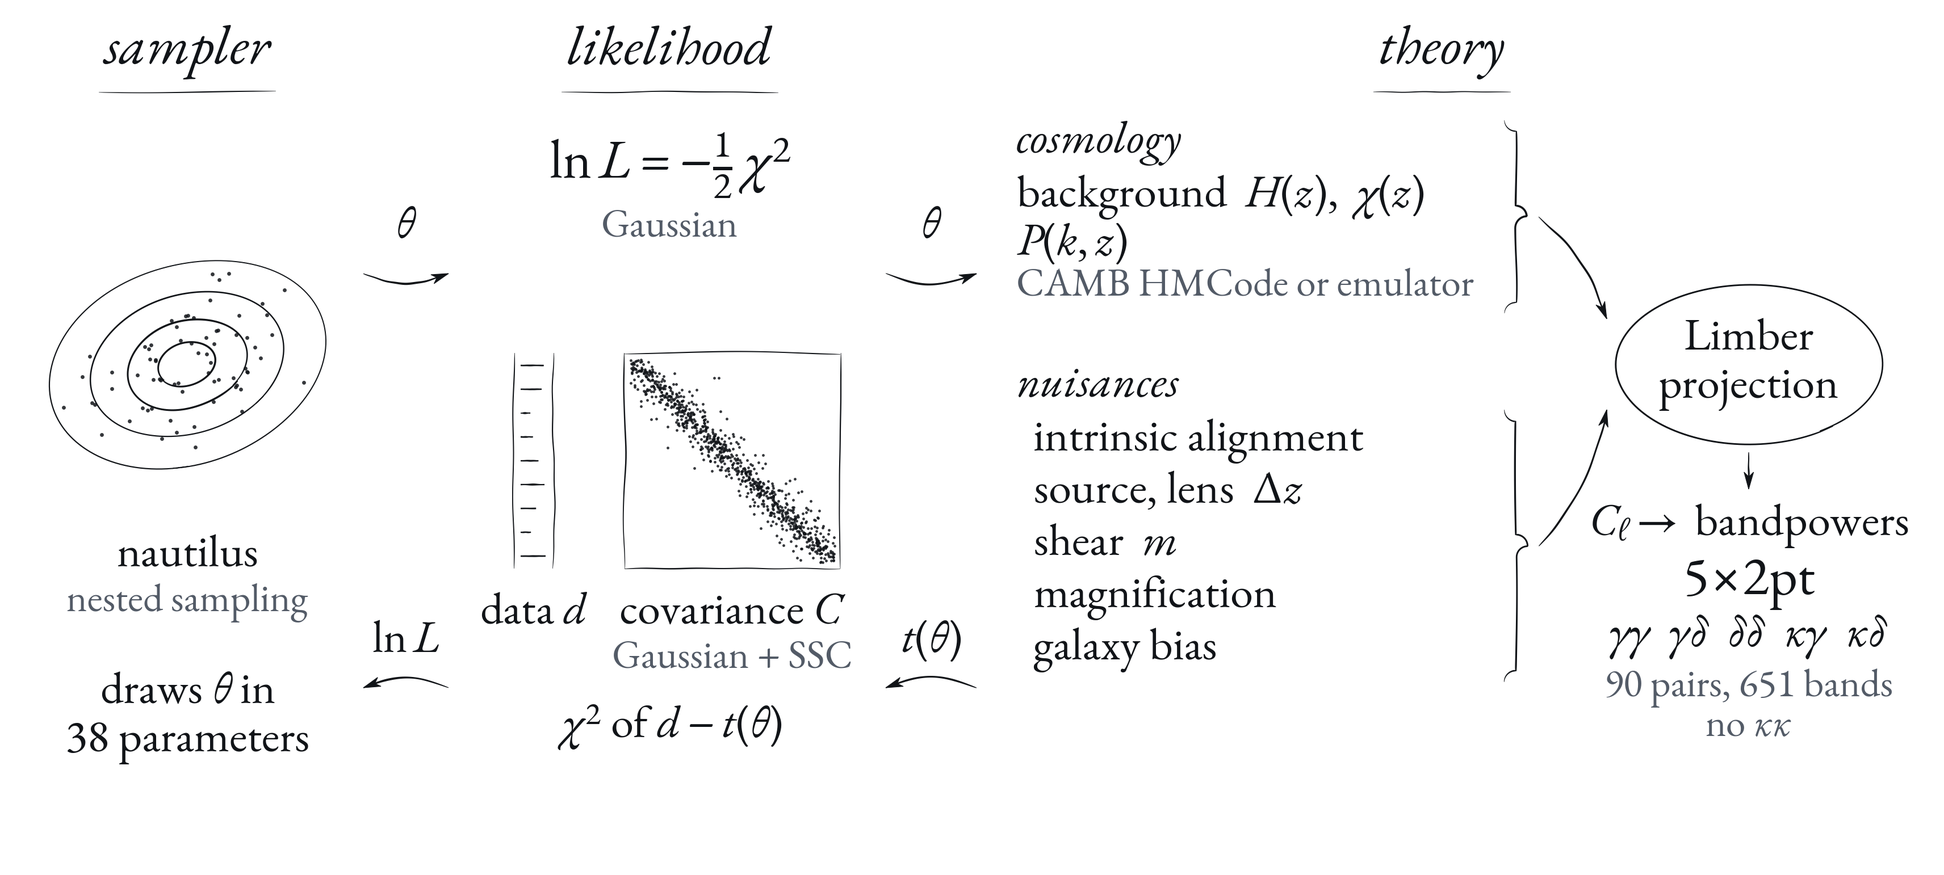
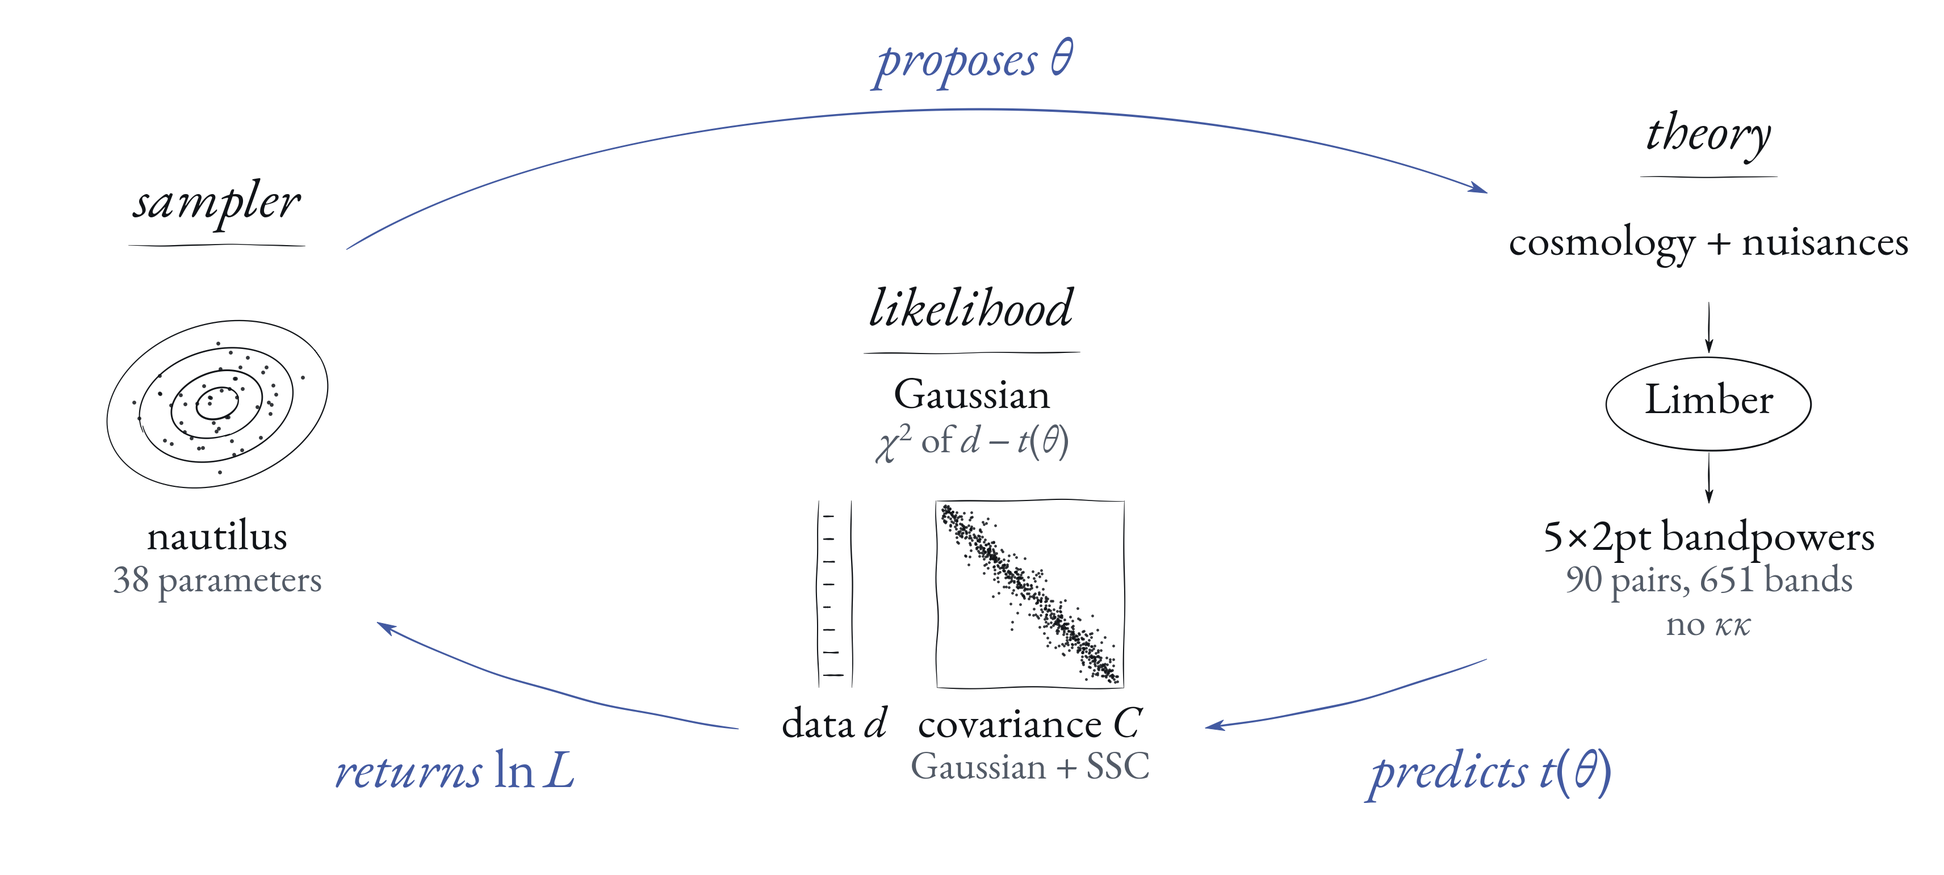
Paris SWG deck: control-variates slide closing the SPT covariance section; chain anatomy redrawn as one loop

diff --git a/2611_Paris_SWG/slides/cov-control-variates.html b/2611_Paris_SWG/slides/cov-control-variates.html
@@ -1,0 +1,36 @@
+<section data-layout="figure">
+  <h2>Control variates for the SPT covariance</h2>
+  <figure>
+    <img src="images/paris26_sketch_control_variates.png" alt="Sketch of a control-variate (CARPool) covariance. Left, few and accurate: SPT-constrained mocks, N of about 350 to 400, each y made with SPT's own reconstruction and drawn beside a mock c of the same sky made with a generic reconstruction. Right, many and approximate: SPT-like mocks, any number M, the same generic reconstruction each on its own sky. Below, the estimator: Sigma-hat equals Sigma-hat of y over the N pairs minus beta times (Sigma-hat of c over the N pairs minus Sigma-hat of c over the M), beta fitted per element on the pairs; unbiased for SPT's estimator, with the noise of N over (1 minus rho squared) constrained mocks, rho the pair correlation per element">
+  </figure>
+  <aside class="notes">
+    <ul class="skim">
+      <li><strong>Left</strong> — each SPT-constrained mock $y$ (blue, SPT's own reconstruction) beside a mock $c$ of the same sky, the same κ and Euclid fields, reconstructed generically; identical dots mark the shared sky.</li>
+      <li><strong>Right</strong> — SPT-like mocks alone, each on a new sky, as many as can be afforded: they pin down the covariance of the generic reconstruction.</li>
+      <li><strong>Estimator</strong> — the constrained mocks' sample covariance, corrected by how far the generic covariance on the same $N$ skies sits from its value over the $M$. Its expectation is SPT's covariance, whatever the generic reconstruction gets wrong.</li>
+      <li><strong>Gain</strong> — each element's noise shrinks by $1-\rho^2$, $\rho$ the correlation of that element's terms across pairs. How large $\rho$ is here is open. An idea for discussion, not a worked method.</li>
+    </ul>
+    <details><summary>The estimator</summary>
+    <p>In CARPool (Chartier et al. 2021) a costly simulation $\boldsymbol{y}$ and a cheap surrogate $\boldsymbol{c}$ are run from the same initial conditions, and $\boldsymbol{x} = \boldsymbol{y} - \boldsymbol{\beta}(\boldsymbol{c} - \boldsymbol{\mu_c})$ is unbiased for $\mathbb{E}[\boldsymbol{y}]$ for any $\boldsymbol{\beta}$, with $\boldsymbol{\mu_c}$ the surrogate's mean from a separate set of seeds (their eqs. 5, 10–11 and 14). For one element the best $\beta$ is $\mathrm{cov}(y,c)/\sigma_c^2$ and the variance falls by $1-\rho_{y,c}^2$ (eqs. 3–4). Chartier &amp; Wandelt apply the same estimator to a covariance by treating the centred outer products $\boldsymbol{Y}_n = \tilde{\boldsymbol{y}}_n\tilde{\boldsymbol{y}}_n^\mathsf{T}$ and $\boldsymbol{C}_n$ as the samples: $\boldsymbol{\Sigma_{yy}}(\boldsymbol{\beta}) = \gamma\overline{\boldsymbol{Y}} - \gamma\boldsymbol{\beta}(\overline{\boldsymbol{C}} - \boldsymbol{\mathcal{M}}_C)$, with $\gamma = N/(N-1)$ and $\boldsymbol{\mathcal{M}}_C$ the surrogate covariance from separate realizations (their eq. 13), and $\beta$ fitted separately for each element on the same $N$ pairs (their section 3, "$q=1$").</p>
+    <p>Here: $\boldsymbol{y}_n$ is the data vector (κ × shear, κ × positions, κκ and the galaxy-only spectra) measured on SPT-constrained mock $n$; $\boldsymbol{c}_n$ is the same data vector on the same sky with the generic reconstruction; $\hat\Sigma_y^N$ and $\hat\Sigma_c^N$ in the drawing are $\gamma\overline{\boldsymbol{Y}}$ and $\gamma\overline{\boldsymbol{C}}$, and $\hat\Sigma_c^M$ is $\boldsymbol{\mathcal{M}}_C$ from the $M$ SPT-like mocks. Fitting $\beta$ on the same pairs makes the estimate unbiased only up to small finite-$N$ terms; the papers accept this. Elements without κ are identical in $y$ and $c$, so $\beta = 1$ there and they come entirely from the $M$ SPT-like mocks. Setting $\beta = 1$ everywhere gives a simpler variant to read: the SPT-like covariance plus the difference between the two reconstructions, measured on the pairs.</p>
+    </details>
+    <details><summary>What it needs to work</summary>
+    <ul>
+      <li><strong>A high per-band correlation.</strong> For a covariance the samples are products of data vectors, and for Gaussian fluctuations, if a band in $y$ and in $c$ correlates with coefficient $r$, its diagonal element correlates as $\rho = r^2$ (my derivation, not from the papers). The element noise then falls by $1-r^4$: about 3× fewer constrained mocks needed at $r = 0.9$, 5× at 0.95, 25× at 0.99.</li>
+      <li><strong>The same CMB and noise realization in each pair.</strong> If the generic reconstruction runs on the same simulated CMB and noise maps that SPT reconstructed, the reconstruction noise is shared and $r$ is limited only by the differences between the two estimators (filtering, weights, masks). If the pair shares only the input κ and the Euclid fields, the reconstruction noise is independent between $y$ and $c$, and for κ × galaxy bands where that noise is comparable to the lensing signal, $r$ falls to roughly 0.5–0.7 and the gain disappears (my rough estimate, for reconstruction noise between half of and equal to the κ power per mode, which leaves at most a 1.3× gain). So the useful ask of SPT would be its simulated CMB and noise maps, or a generic reconstruction run on them, beyond the reconstructed κ maps of the previous slide. Whether SPT can share those is not known.</li>
+      <li><strong>A positive-definite result.</strong> The estimate is not positive-definite by construction. Chartier &amp; Wandelt reached positive-definiteness from about 80 pairs for a 79-bin power spectrum, but not for their most ill-conditioned covariances; shrinkage or tapering would fix that at the cost of strict unbiasedness (their section 4).</li>
+      <li><strong>Cost to the covariance team.</strong> One generic reconstruction per constrained mock, about 400, on top of the SPT-like mocks they make anyway; the estimator itself is a few lines on stored data vectors. With $\beta$ fitted from data it never does worse than ignoring $c$, up to the noise in $\beta$.</li>
+    </ul>
+    </details>
+    <details><summary>What could be checked first</summary>
+    <ul>
+      <li>With SPT-like mocks alone: run two different generic reconstructions (for example different multipole ranges or filtering) on the same simulated skies, once with the same noise realization and once with independent ones, and measure $r$ per band of κ × shear and κ × positions. The two cases bracket the two pairings above.</li>
+      <li>A dry run of the estimator on those mocks: treat one reconstruction as "costly" with only 400 realizations and the other as the surrogate with many, and compare the result with the sample covariance of the costly one from all realizations: element noise, positive-definiteness, and the $\chi^2$ and Fisher errors it gives.</li>
+      <li>Once SPT-constrained mocks exist, $r$ per band from the pairs themselves decides whether the combination is worth using.</li>
+    </ul>
+    </details>
+    <details><summary>Sources</summary>
+    <p>Chartier, Wandelt, Akrami &amp; Villaescusa-Navarro, "CARPool: fast, accurate computation of large-scale structure statistics by pairing costly and cheap cosmological simulations", arXiv:2009.08970: section 2.1 (eqs. 1–9, control variates and the variance reduction $1-\rho^2$), section 2.2 (eqs. 10–15, estimating $\boldsymbol{\mu_c}$ from separate seeds and $\boldsymbol{\beta}$ from the pairs). Chartier &amp; Wandelt, "CARPool Covariance: fast, unbiased covariance estimation for large-scale structure observables", arXiv:2106.11718: section 2.2 (eq. 13, the CARPool covariance, and its lack of guaranteed positive-definiteness), sections 3.3.1 and 4 (positive-definite from about 80 pairs for $P(k)$, failures for ill-conditioned covariances). Kokron, Chen, White, DeRose &amp; Maus, "Accurate predictions from small boxes: variance suppression via the Zel'dovich approximation", arXiv:2205.15327: section 2.1 (the cost of estimating $\mu_c$ by simulation, and replacing it with an analytic Zel'dovich mean, eq. 4.1). For the SPT case an analytic covariance of the generic reconstruction could play that role only where it is exact. Drawing: make_cloe_sketches.py.</p>
+    </details>
+  </aside>
+</section>

diff --git a/2611_Paris_SWG/slides/cloe-anatomy.html b/2611_Paris_SWG/slides/cloe-anatomy.html
@@ -1,13 +1,14 @@
 <section data-layout="figure">
   <h2>Three levels of a cosmology chain</h2>
   <figure>
-    <img src="images/paris26_sketch_anatomy.png" alt="Sketch of a chain in three levels: the nautilus sampler draws parameters; the Gaussian likelihood compares the TR1 data vector with the theory vector through the Gaussian plus SSC covariance; the theory combines cosmology (background and P(k) from CAMB HMCode or the emulator) with nuisances (intrinsic alignment, source and lens redshift shifts, shear m, magnification, galaxy bias) in a Limber projection to 5×2pt bandpowers, 90 pairs and 651 bands, without κκ">
+    <img src="images/paris26_sketch_anatomy.png" alt="Sketch of a chain as one loop of three arrows: the nautilus sampler, over 38 parameters, proposes theta; the theory, cosmology and nuisances through the Limber projection to the 5×2pt bandpowers (90 pairs, 651 bands, no κκ), predicts t(theta); the Gaussian likelihood, chi-squared of the data d minus t(theta) with the Gaussian plus SSC covariance C, returns ln L to the sampler, which proposes again">
   </figure>
   <aside class="notes">
     <ul class="skim">
+      <li><strong>The loop</strong> — one evaluation goes once around: the sampler proposes a point $\theta$, the theory predicts the data vector $t(\theta)$ there, the likelihood compares it with the data and returns $\ln L$, and the sampler uses it to propose the next point.</li>
       <li><strong>Sampler</strong> — nautilus (nested sampling) draws a point $\theta$ in the 38 sampled parameters of the TR1 data chains (37 on the GLASS mock, where $\log T_\mathrm{AGN}$ is fixed) and receives $\ln L$.</li>
       <li><strong>Likelihood</strong> — Gaussian: $\ln L = -\tfrac12 (d - t)^\mathsf{T} C^{-1} (d - t)$, with $d$ the measured bandpowers and $C$ the production Gaussian + SSC covariance.</li>
-      <li><strong>Theory</strong> — the theory vector $t(\theta)$: the background and $P(k, z)$ of the cosmology, with the nuisances, projected (Limber) to $C_\ell$ and through the bandpower windows.</li>
+      <li><strong>Theory</strong> — the theory vector $t(\theta)$: the background ($H(z)$, $\chi(z)$) and $P(k, z)$ of the cosmology (CAMB with HMCode, or the emulator), with the nuisances, projected (Limber) to $C_\ell$ and through the bandpower windows.</li>
       <li><strong>Vector</strong> — 5×2pt after scale cuts: shear × shear, shear × positions, positions × positions, κ × shear and κ × positions; 90 pairs, 651 bands. κκ is not included (CLOElike has no CMB-lensing likelihood yet).</li>
     </ul>
     <details><summary>The nuisances</summary>

diff --git a/2611_Paris_SWG/make_cloe_sketches.py b/2611_Paris_SWG/make_cloe_sketches.py
@@ -1,12 +1,13 @@
 """Pen drawings for the blinding and CLOE segments of the Paris CMBX SWG deck.
 
-Four drawings, each at 2x the slide's figure box (3424 x 1542 px), on white (the build
+Five drawings, each at 2x the slide's figure box (3424 x 1542 px), on white (the build
 multiplies white into the theme ground):
 
   paris26_sketch_blindspot.png  how blindspot makes a 3x2pt blinding shift
   paris26_sketch_anatomy.png    the three levels of a chain: sampler, likelihood, theory
   paris26_sketch_swap.png       eDR1like + CCL against CLOE: what is shared, what is swapped
   paris26_sketch_jax.png        plain CLOE against CLOE with its slow pieces in JAX
+  paris26_sketch_control_variates.png  CARPool for the SPT covariance: paired and unpaired mocks
 
 Every number drawn is quoted, with its source, in the notes card of the slide that shows it.
 The style is a fine-pen scientific plate: thin ink strokes whose weight swells and tapers
@@ -15,7 +16,7 @@ only where tone carries meaning, small EB Garamond lettering (the deck's face) w
 for variables. The random seed is fixed, so a redraw is identical. Each drawing is audited
 on save: a label that touches another label or a stroke is reported.
 
-Run in the cmbx container: app python make_cloe_sketches.py
+Run in the cmbx container: app python make_cloe_sketches.py [drawing ...]
 """
 import os
 import tempfile
@@ -175,6 +176,13 @@ class Plate:
     def arrow(self, p0, p1, bow=0.0, color=INK, w=WEIGHT, size=30):
         pts = self.line(p0, p1, bow=bow, color=color, w=w)
         self.head(p1, pts[-6], color=color, size=size)
+
+    def loop_arc(self, cx, cy, rx, ry, a0, a1, color=INK, w=WEIGHT, size=34):
+        """An arc of the ellipse (cx, cy, rx, ry) from angle a0 to a1 (degrees), headed at a1."""
+        t = np.radians(np.linspace(a0, a1, 120))
+        pts = np.stack([cx + rx * np.cos(t), cy + ry * np.sin(t)], 1)
+        pts = self.pen(pts, color=color, w=w, taper=0.4)
+        self.head(pts[-1], pts[-8], color=color, size=size)
 
     def ring(self, cx, cy, rx, ry=None, angle=0, dashed=False, **kw):
         ry = rx if ry is None else ry
@@ -343,40 +351,58 @@ def blindspot():
 
 
 def anatomy():
+    """The three levels as one loop: the sampler proposes, the theory predicts, the likelihood
+    returns ln L to the sampler, which proposes again."""
     p = Plate(11)
-    p.heading(330, 1450, "sampler")
-    p.heading(1180, 1450, "likelihood")
-    p.heading(2540, 1450, "theory")
+    cx, cy, rx, ry = 1712, 790, 1330, 560
+    p.loop_arc(cx, cy, rx, ry, 146, 47, color=ACCENT)       # over the top, left to right
+    p.loop_arc(cx, cy, rx, ry, -47, -72, color=ACCENT)      # down the right, to the bottom
+    p.loop_arc(cx, cy, rx, ry, 252, 218, color=ACCENT)      # up the left, back to the start
+    p.text(cx, cy + ry + 80, r"proposes $\theta$", size=HEAD, color=ACCENT, italic=True)
+    p.text(2620, 175, r"predicts $t(\theta)$", size=HEAD, color=ACCENT, italic=True)
+    p.text(800, 175, r"returns $\ln L$", size=HEAD, color=ACCENT, italic=True)
 
     # sampler: nested shells of live points
-    sx, sy = 330, 900
-    for k, (rx, ry) in enumerate([(250, 175), (175, 122), (108, 76), (52, 37)]):
-        p.ring(sx, sy, rx, ry, angle=18, w=WEIGHT * (0.6 + 0.12 * k))
-    a = np.radians(18)
-    rot = np.array([[np.cos(a), np.sin(a)], [-np.sin(a), np.cos(a)]])
+    sx, sy = 382, 830
+    p.heading(sx, 1180, "sampler")
+    for k, (a, b) in enumerate([(200, 140), (138, 96), (82, 57), (38, 27)]):
+        p.ring(sx, sy, a, b, angle=18, w=WEIGHT * (0.6 + 0.12 * k))
+    rot = np.radians(18)
+    rot = np.array([[np.cos(rot), np.sin(rot)], [-np.sin(rot), np.cos(rot)]])
 
     def live(n):
-        q = p.rng.normal(0, 1, (4 * n, 2)) * [120, 75]
-        q = q[(q[:, 0] ** 2 / 235 ** 2 + q[:, 1] ** 2 / 160 ** 2) < 1][:n]
+        q = p.rng.normal(0, 1, (4 * n, 2)) * [95, 60]
+        q = q[(q[:, 0] ** 2 / 188 ** 2 + q[:, 1] ** 2 / 128 ** 2) < 1][:n]
         return (sx, sy) + q @ rot
-    p.stipple(70, live, r=3.4)
-    p.text(sx, 560, "nautilus", size=BODY)
-    p.text(sx, 480, "nested sampling", size=SMALL, color=MUTED)
-    p.text(sx, 320, r"draws $\theta$ in", size=BODY)
-    p.text(sx, 235, "38 parameters", size=BODY)
+    p.stipple(50, live, r=3.4)
+    p.text(sx, 590, "nautilus", size=BODY)
+    p.text(sx, 515, "38 parameters", size=SMALL, color=MUTED)
 
-    # likelihood
-    lx = 1180
-    p.text(lx, 1250, r"$\ln L = -\frac{1}{2}\,\chi^2$", size=HEAD)
-    p.text(lx, 1140, "Gaussian", size=SMALL, color=MUTED)
-    vx, vy, vh = 905, 540, 380
-    for x in (vx, vx + 70):
+    # theory: cosmology and nuisances through the Limber projection to the bandpowers
+    tx = 3010
+    p.heading(tx, 1300, "theory")
+    p.text(tx, 1110, "cosmology + nuisances", size=BODY)
+    p.arrow((tx, 1010), (tx, 920), size=24, w=WEIGHT * 0.8)
+    p.ring(tx, 830, 180, 82, w=WEIGHT * 0.8)
+    p.text(tx, 830, "Limber", size=BODY)
+    p.arrow((tx, 745), (tx, 655), size=24, w=WEIGHT * 0.8)
+    p.text(tx, 590, "5×2pt bandpowers", size=BODY)
+    p.text(tx, 515, "90 pairs, 651 bands", size=SMALL, color=MUTED)
+    p.text(tx, 438, r"no $\kappa\kappa$", size=SMALL, color=MUTED)
+
+    # likelihood: the data vector and the covariance, compared with t(theta)
+    p.heading(cx, 990, "likelihood")
+    p.text(cx, 840, "Gaussian", size=BODY)
+    p.text(cx, 760, r"$\chi^2$ of $d - t(\theta)$", size=SMALL, color=MUTED)
+    vx, vy, vh = 1440, 330, 330
+    for x in (vx, vx + 60):
         p.line((x, vy), (x, vy + vh), w=WEIGHT * 0.6)
-    for i in range(9):
-        yy = vy + 22 + i * 42
-        p.line((vx + 12, yy), (vx + 12 + p.rng.uniform(14, 48), yy), w=WEIGHT, taper=0.7)
-    p.text(vx + 35, vy - 80, "data $d$", size=BODY)
-    cx0, cy0, cw = 1100, 540, 380
+    for i in range(8):
+        yy = vy + 22 + i * 40
+        p.line((vx + 10, yy), (vx + 10 + p.rng.uniform(12, 40), yy), w=WEIGHT, taper=0.7)
+    p.text(vx + 30, vy - 70, "data $d$", size=BODY)
+    cx0, cy0, cw = 1650, 330, 330
+
     for (x0, y0), (x1, y1) in [((0, 0), (1, 0)), ((1, 0), (1, 1)), ((1, 1), (0, 1)), ((0, 1), (0, 0))]:
         p.line((cx0 + x0 * cw, cy0 + y0 * cw), (cx0 + x1 * cw, cy0 + y1 * cw), w=WEIGHT * 0.6)
 
@@ -386,42 +412,9 @@ def anatomy():
         q = np.stack([u + off / 2, 1 - u + off / 2], 1)
         q = q[(q > 0.025).all(1) & (q < 0.975).all(1)]
         return (cx0, cy0) + q * cw
-    p.stipple(900, band, r=2.4)
-    p.text(cx0 + cw / 2, cy0 - 80, "covariance $C$", size=BODY)
-    p.text(cx0 + cw / 2, cy0 - 160, "Gaussian + SSC", size=SMALL, color=MUTED)
-    p.text(lx, 260, r"$\chi^2$ of $d - t(\theta)$", size=BODY)
-
-    # the calls between levels
-    for x0, x1, down, up in [(640, 790, r"$\theta$", r"$\ln L$"), (1560, 1720, r"$\theta$", r"$t(\theta)$")]:
-        p.arrow((x0, 1060), (x1, 1060), bow=-0.12)
-        p.text((x0 + x1) / 2, 1140, down, size=BODY)
-        p.arrow((x1, 330), (x0, 330), bow=-0.12)
-        p.text((x0 + x1) / 2, 410, up, size=BODY)
-
-    # theory: cosmology and nuisances, braced into the projection
-    tx = 1790
-    p.text(tx, 1290, "cosmology", size=BODY, ha="left", italic=True)
-    p.text(tx, 1195, r"background  $H(z),\ \chi(z)$", size=BODY, ha="left")
-    p.text(tx, 1110, r"$P(k, z)$", size=BODY, ha="left")
-    p.text(tx, 1035, "CAMB HMCode or emulator", size=SMALL, ha="left", color=MUTED)
-    p.text(tx, 860, "nuisances", size=BODY, ha="left", italic=True)
-    for i, item in enumerate(["intrinsic alignment", r"source, lens  $\Delta z$", r"shear  $m$",
-                              "magnification", "galaxy bias"]):
-        p.text(tx + 30, 765 - i * 92, item, size=BODY, ha="left")
-    lim = (3080, 900)
-    top = p.brace((2650, 1330), (2650, 990), depth=40, w=WEIGHT * 0.9)
-    bot = p.brace((2650, 820), (2650, 340), depth=40, w=WEIGHT * 0.9)
-    p.arrow(top + (20, 0), (lim[0] - 250, lim[1] + 80), bow=0.08)
-    p.arrow(bot + (20, 0), (lim[0] - 250, lim[1] - 80), bow=-0.08)
-    p.ring(*lim, 235, 140, w=WEIGHT * 0.8)
-    p.text(lim[0], lim[1] + 42, "Limber", size=BODY)
-    p.text(lim[0], lim[1] - 42, "projection", size=BODY)
-    p.arrow((lim[0], lim[1] - 155), (lim[0], 680))
-    p.text(lim[0], 615, r"$C_\ell \rightarrow$ bandpowers", size=BODY)
-    p.text(lim[0], 515, "5×2pt", size=HEAD)
-    p.text(lim[0], 420, r"$\gamma\gamma\;\;\gamma\delta\;\;\delta\delta\;\;\kappa\gamma\;\;\kappa\delta$", size=BODY)
-    p.text(lim[0], 330, "90 pairs, 651 bands", size=SMALL, color=MUTED)
-    p.text(lim[0], 260, r"no $\kappa\kappa$", size=SMALL, color=MUTED)
+    p.stipple(700, band, r=2.4)
+    p.text(cx0 + cw / 2, cy0 - 70, "covariance $C$", size=BODY)
+    p.text(cx0 + cw / 2, cy0 - 145, "Gaussian + SSC", size=SMALL, color=MUTED)
     p.save("paris26_sketch_anatomy.png")
 
 
@@ -529,12 +522,79 @@ def jax():
     p.save("paris26_sketch_jax.png")
 
 
+def control_variates():
+    """CARPool for the SPT covariance: a few SPT-constrained mocks, each paired with an SPT-like
+    mock of the same sky, and many SPT-like mocks alone."""
+    p = Plate(41)
+    R, r = 96, 56
+
+    def sky(n):
+        """One realization: a few clumps over a uniform floor, in the unit disc."""
+        centres = p.rng.uniform(-0.55, 0.55, (4, 2))
+        q = np.vstack([c + p.rng.normal(0, 0.16, (n // 6, 2)) for c in centres]
+                      + [p.rng.uniform(-1, 1, (n, 2))])
+        q = q[np.hypot(*q.T) < 0.82]
+        return q[p.rng.permutation(len(q))[:n]]
+
+    # few and accurate: each SPT-constrained mock beside an SPT-like mock of the same sky
+    xy, xc = 470, 1090
+    p.heading((xy + xc) / 2, 1460, "few, accurate")
+    p.text((xy + xc) / 2, 1300, r"SPT-constrained, $N \approx$ 350–400", size=SMALL, color=MUTED)
+    rows = [1130, 925, 655]
+    for k, y in enumerate(rows):
+        q = sky(30)
+        p.ring(xy, y, R, color=ACCENT, w=WEIGHT * 1.15)
+        p.stipple(len(q), lambda n: (xy, y) + q * R, r=3.2)
+        p.ring(xc, y, R, w=WEIGHT * 0.7)
+        p.stipple(len(q), lambda n: (xc, y) + q * R, r=3.2)
+        p.dashed([(xy + R + 30, y), (xc - R - 30, y)], dash=16, gap=12, w=WEIGHT * 0.6, color=MUTED)
+        if k == 0:
+            p.text((xy + xc) / 2, y + 55, "same sky", size=SMALL, color=MUTED, italic=True)
+    for x in (xy, (xy + xc) / 2, xc):
+        for j in range(3):
+            p.stipple(1, lambda n: np.array([[x, 820 - j * 30]]), r=3.6)
+    p.text(xy, 492, "$y$", size=HEAD, italic=True, color=ACCENT)
+    p.text(xy, 400, "SPT's own", size=SMALL, color=MUTED)
+    p.text(xy, 322, "reconstruction", size=SMALL, color=MUTED)
+    p.text(xc, 492, "$c$", size=HEAD, italic=True)
+    p.text(xc, 400, "generic", size=SMALL, color=MUTED)
+    p.text(xc, 322, "reconstruction", size=SMALL, color=MUTED)
+
+    # many and approximate: SPT-like mocks alone, each its own sky
+    gx = [1880 + 172 * i for i in range(8)]
+    gy = [1140, 980, 820, 660]
+    p.heading((gx[0] + gx[-1]) / 2, 1460, "many, approximate")
+    p.text((gx[0] + gx[-1]) / 2, 1300, r"SPT-like, any number $M$", size=SMALL, color=MUTED)
+    for y in gy:
+        for x in gx:
+            q = sky(12)
+            p.ring(x, y, r, w=WEIGHT * 0.55)
+            p.stipple(len(q), lambda n: (x, y) + q * r, r=2.6)
+    mx = (gx[0] + gx[-1]) / 2
+    p.text(mx, 492, "$c$", size=HEAD, italic=True)
+    p.text(mx, 400, "the same generic reconstruction,", size=SMALL, color=MUTED)
+    p.text(mx, 322, "each on its own sky", size=SMALL, color=MUTED)
+
+    # the estimator, and what it gives
+    p.line((120, 262), (3300, 262), w=WEIGHT * 0.5, color=RULE)
+    p.text(130, 150, r"$\hat\Sigma \;=\; \hat\Sigma_y^N \;-\; \beta\,(\hat\Sigma_c^N - \hat\Sigma_c^M)$",
+           size=HEAD + 4, ha="left")
+    p.text(1260, 195, r"$\hat\Sigma^N$: over the $N$ pairs;  $\hat\Sigma^M$: over the $M$", size=SMALL,
+           ha="left", color=MUTED)
+    p.text(1260, 110, r"$\beta$: fitted per element on the pairs", size=SMALL, ha="left", color=MUTED)
+    p.text(2340, 200, "unbiased for SPT's estimator,", size=SMALL, ha="left", color=ACCENT)
+    p.text(2340, 120, r"noise of $N / (1 - \rho^2)$ constrained mocks", size=SMALL, ha="left", color=ACCENT)
+    p.text(2340, 42, r"$\rho$: pair correlation, per element", size=SMALL, ha="left", color=MUTED)
+    p.save("paris26_sketch_control_variates.png")
+
+
 def main():
+    import sys
     setup_font()
-    blindspot()
-    anatomy()
-    swap()
-    jax()
+    drawings = {"blindspot": blindspot, "anatomy": anatomy, "swap": swap, "jax": jax,
+                "control_variates": control_variates}
+    for name in sys.argv[1:] or drawings:
+        drawings[name]()
 
 
 if __name__ == "__main__":
